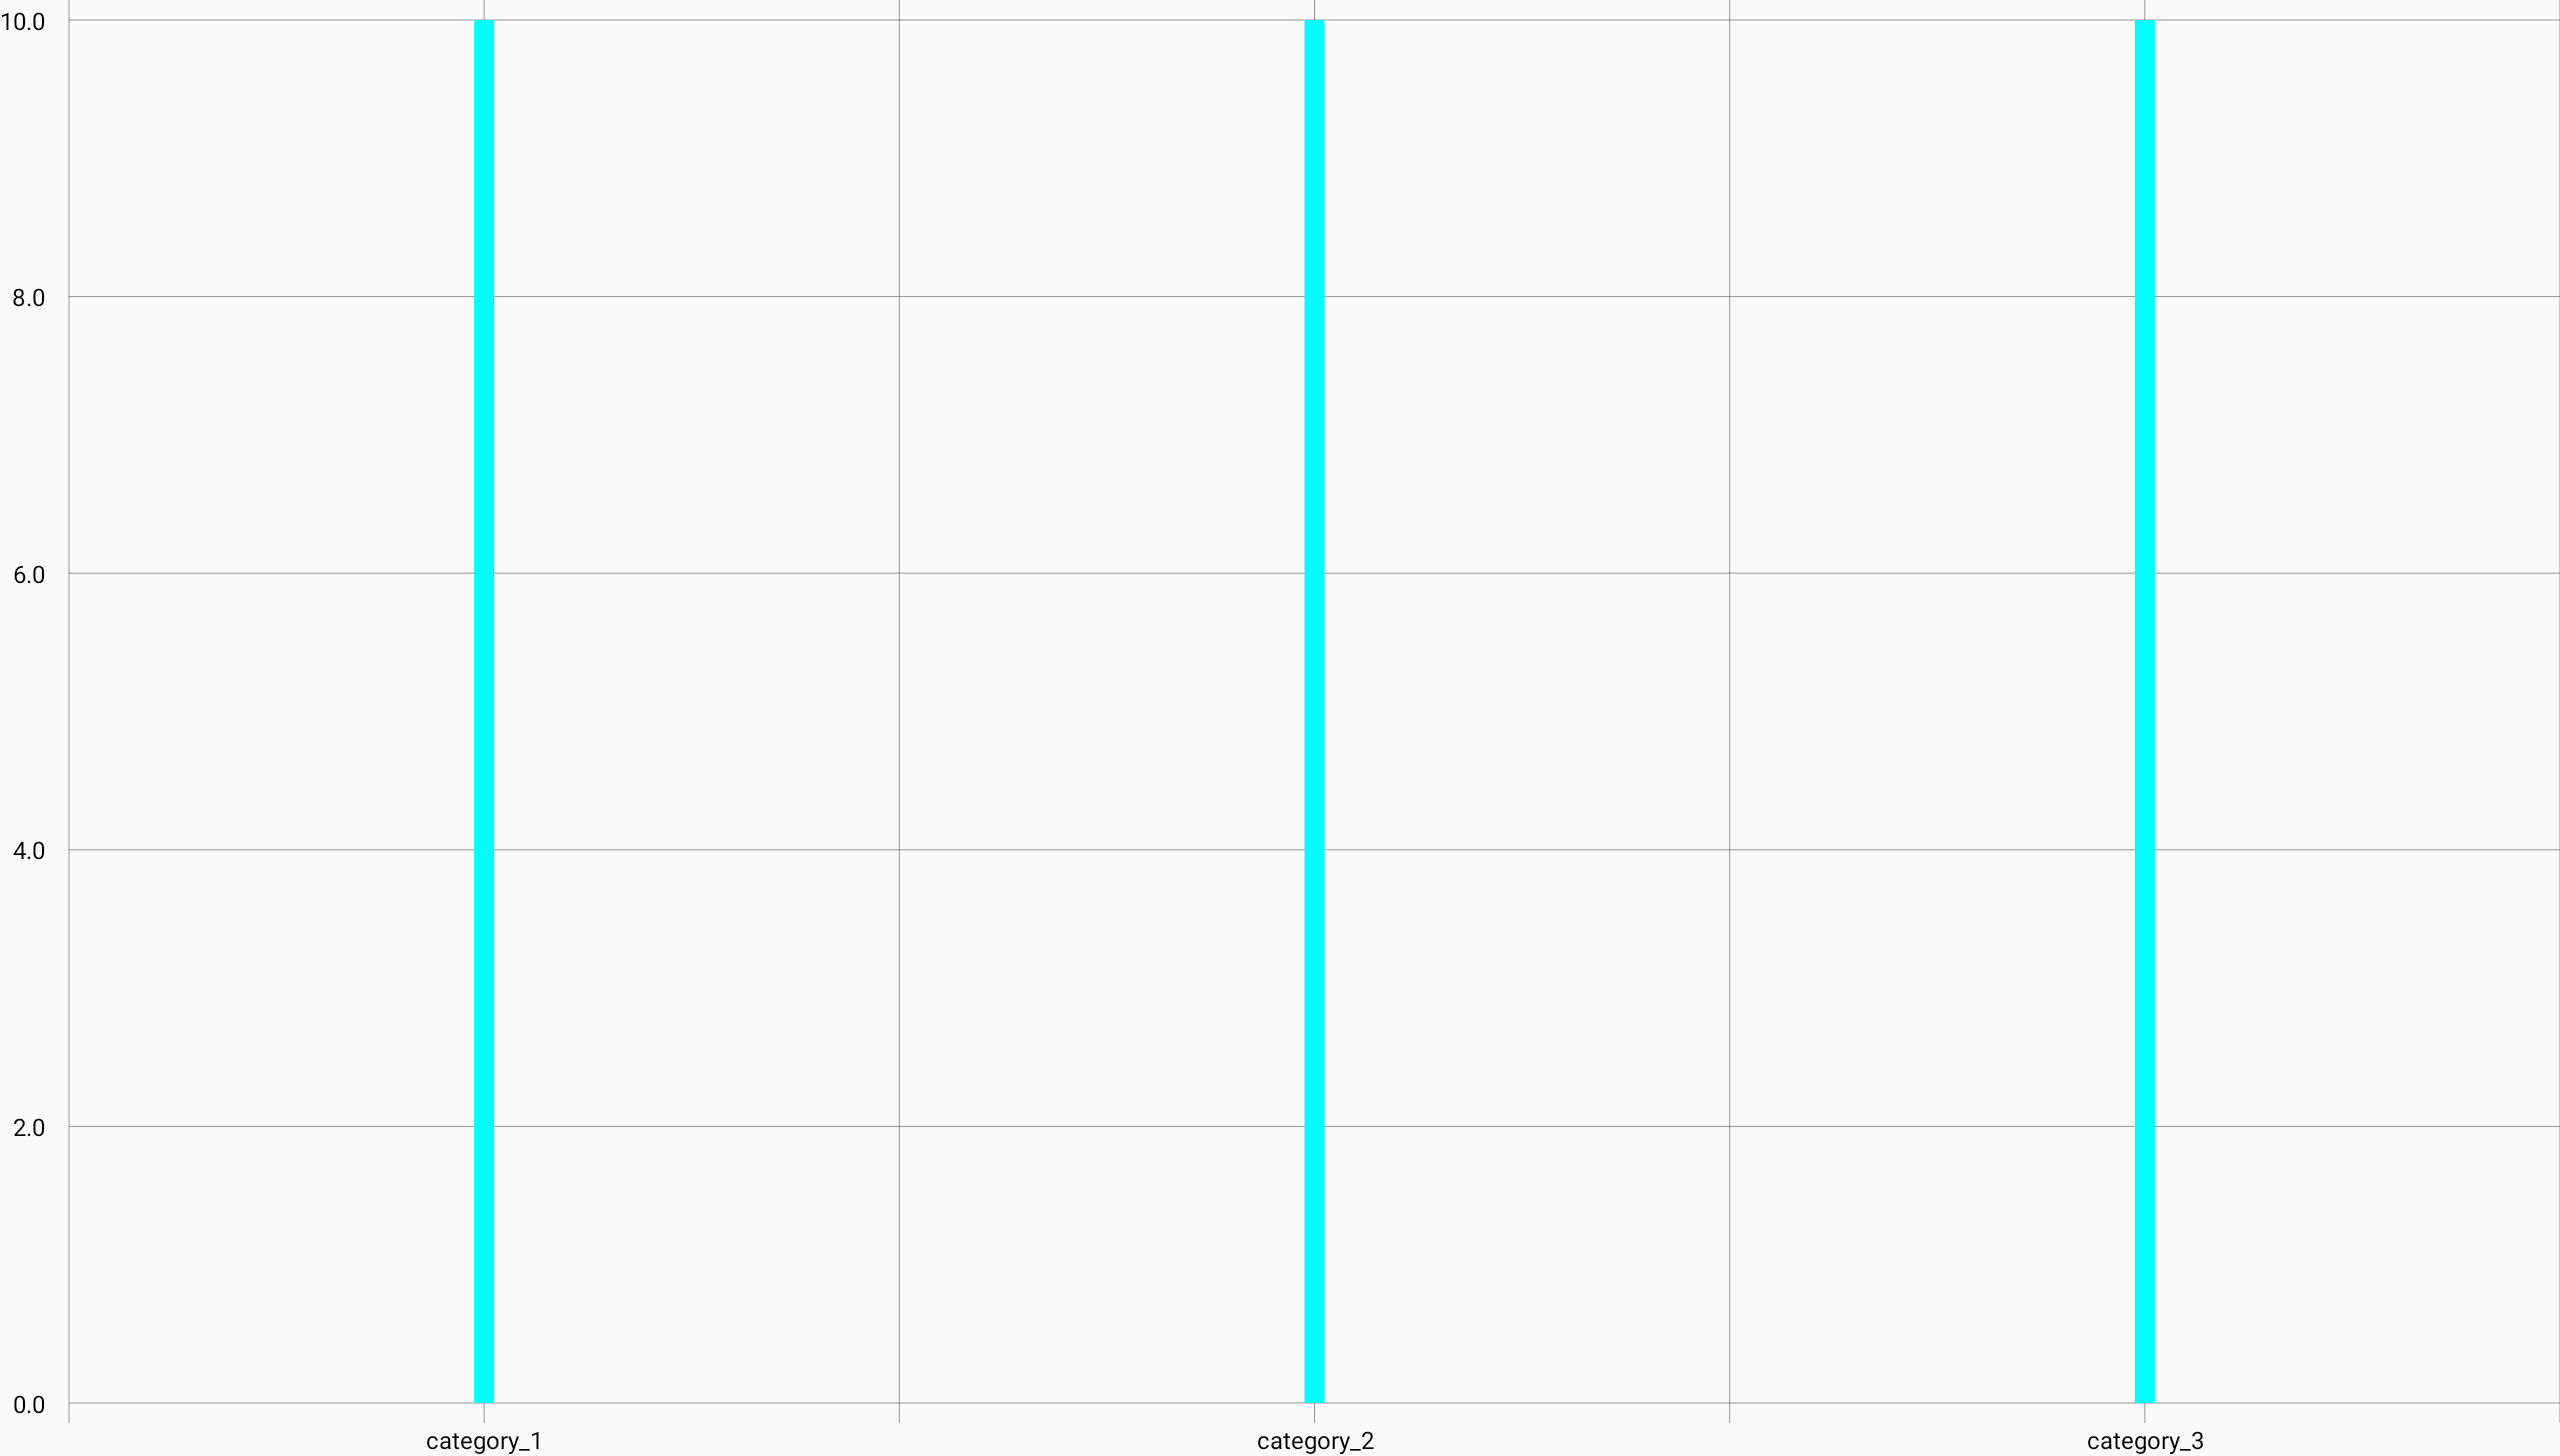
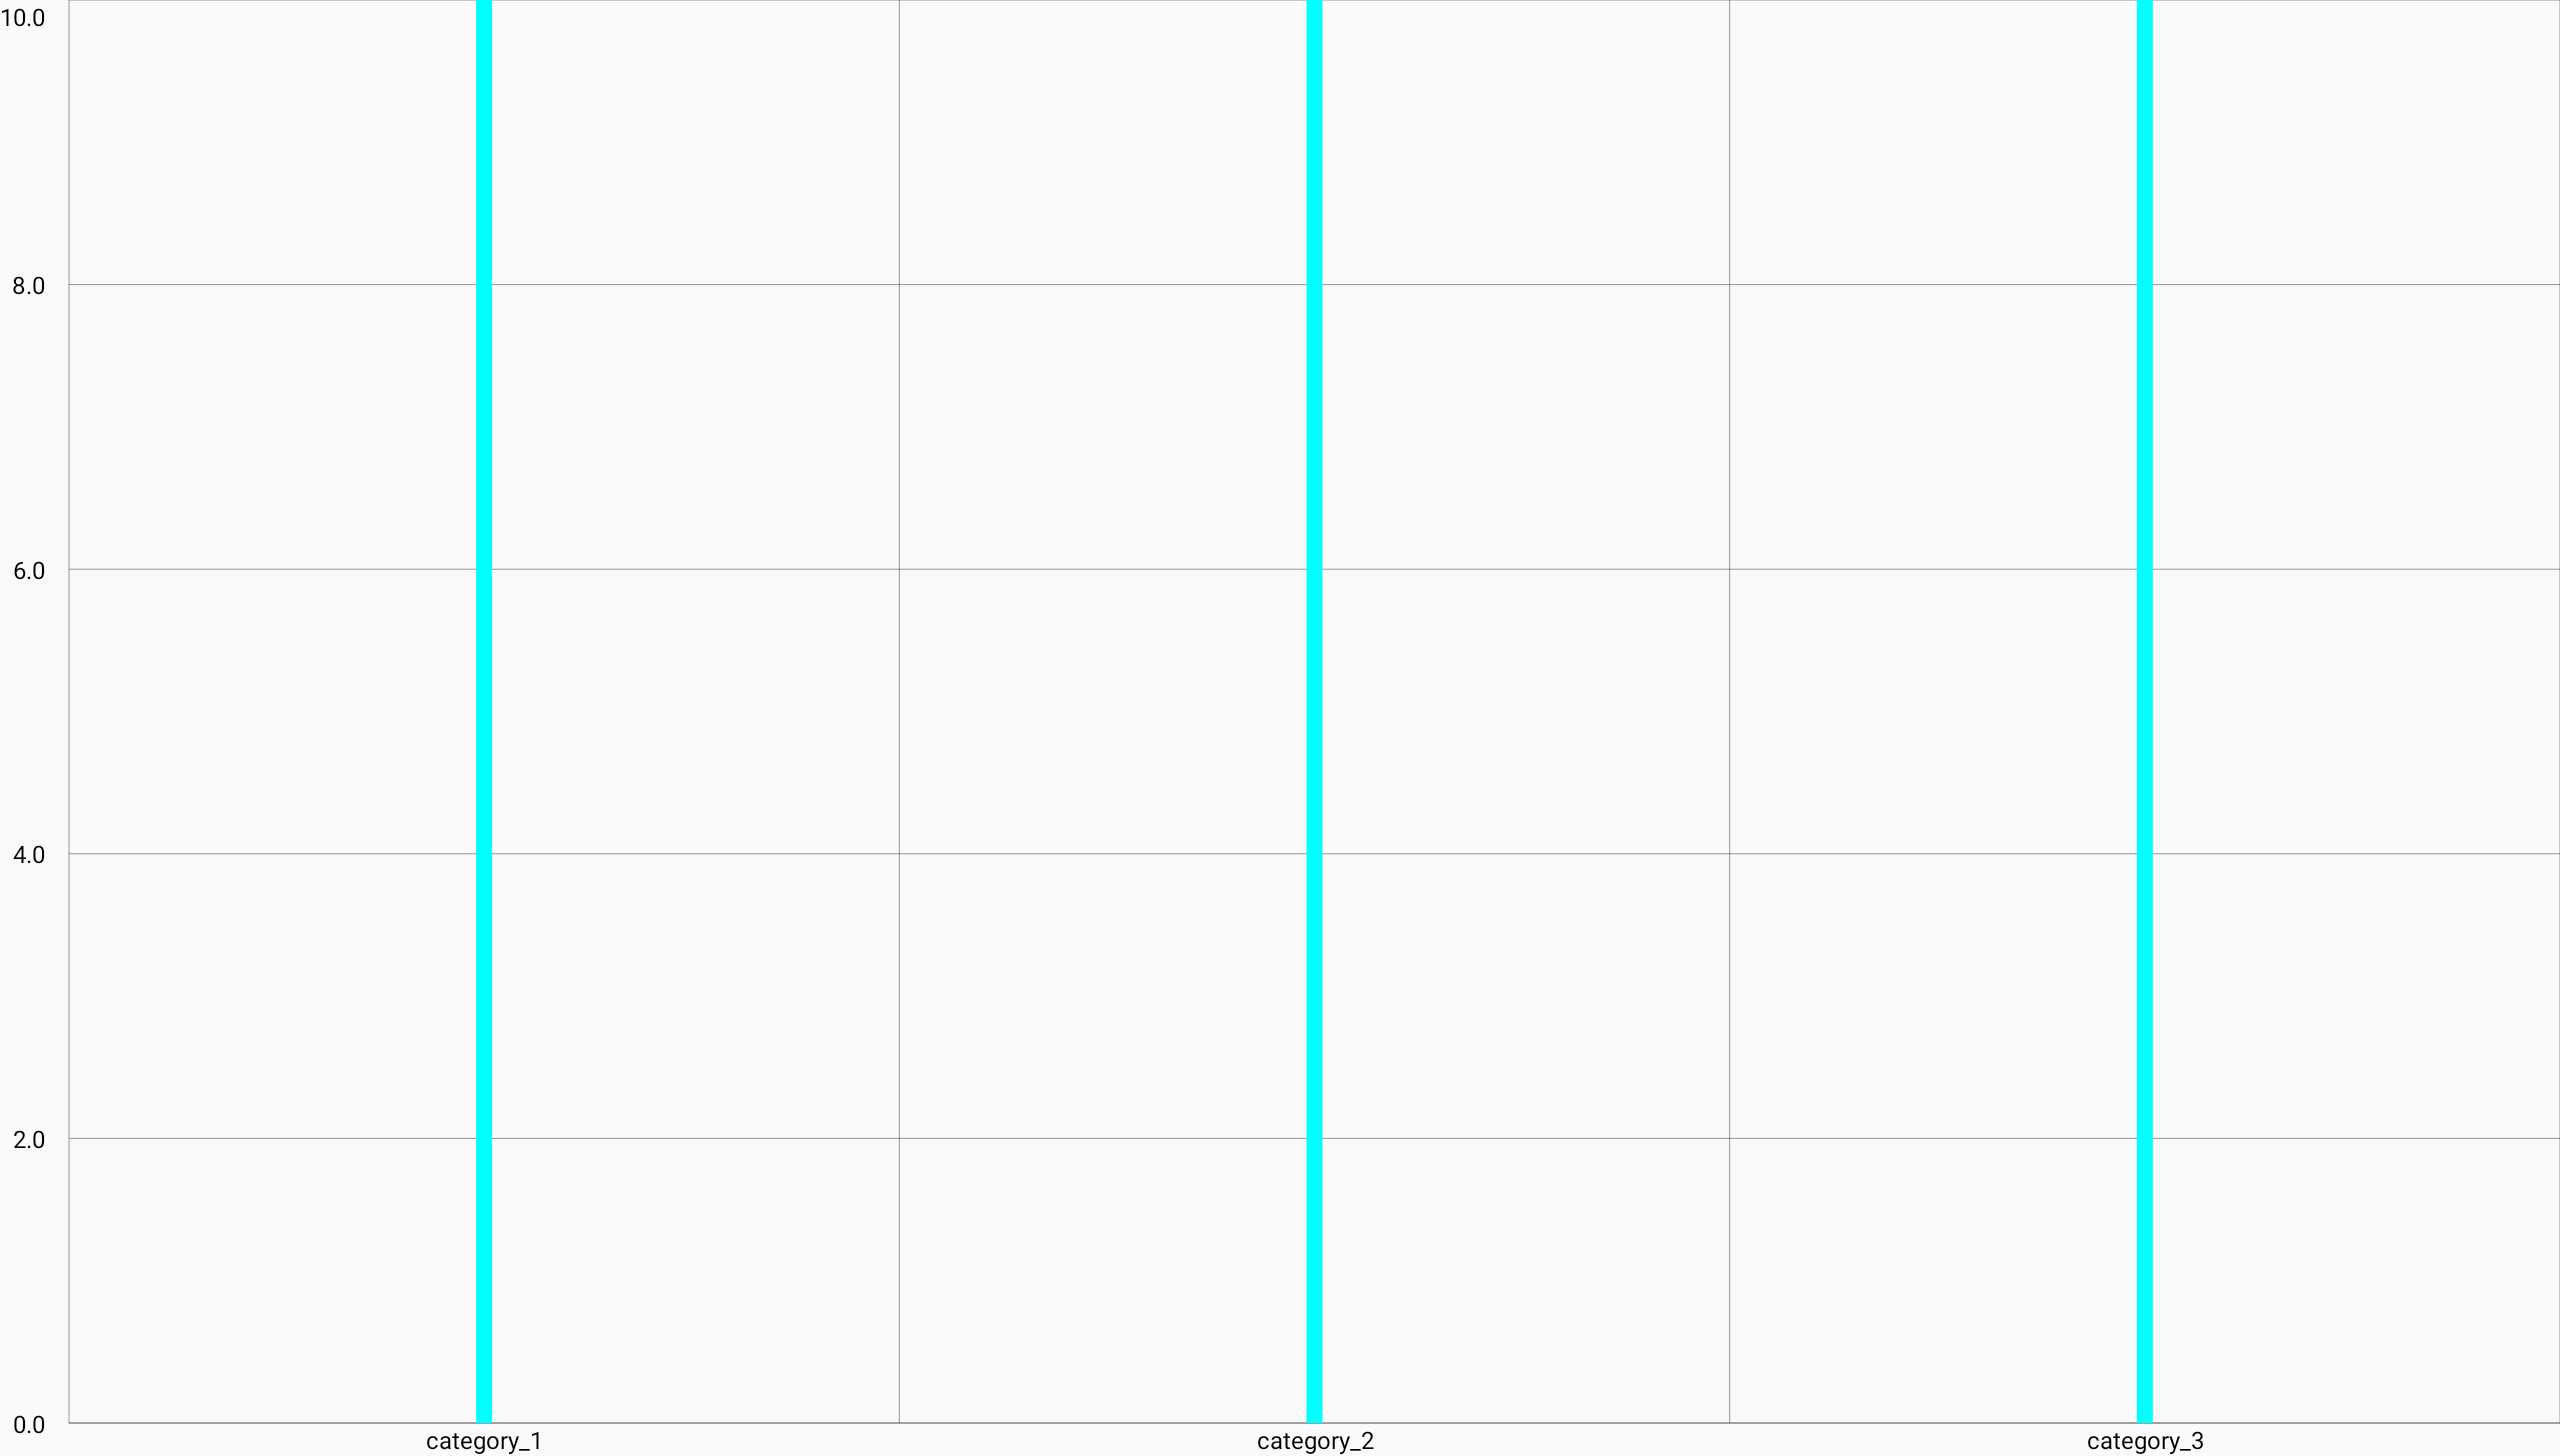
Change below zero rounding and update Barchart test screens

diff --git a/example-app/application/src/commonMain/kotlin/com/netguru/multiplatform/charts/application/screen/BarChartScreen.kt b/example-app/application/src/commonMain/kotlin/com/netguru/multiplatform/charts/application/screen/BarChartScreen.kt
@@ -36,7 +36,7 @@ fun BarChartScreen() {
                     ),
                     BarChartEntry(
                         x = "secondary",
-                        y = 141f,
+                        y = 149f,
                         color = AppTheme.colors.green,
                     ),
                     BarChartEntry(

diff --git a/charts/src/commonMain/kotlin/com/netguru/multiplatform/charts/grid/axisscale/YAxisScale.kt b/charts/src/commonMain/kotlin/com/netguru/multiplatform/charts/grid/axisscale/YAxisScale.kt
@@ -32,7 +32,7 @@ class YAxisScale(
 
     private fun Float.getClosest(n: Int) = when {
         this > 0f -> (((this.toInt() + n - 1) / n) * n).toFloat()
-        this < 0f -> (((this.toInt() - n - 1) / n) * n).toFloat()
+        this < 0f -> (((this.toInt() - n + 1) / n) * n).toFloat()
         else -> 0f
     }
 
